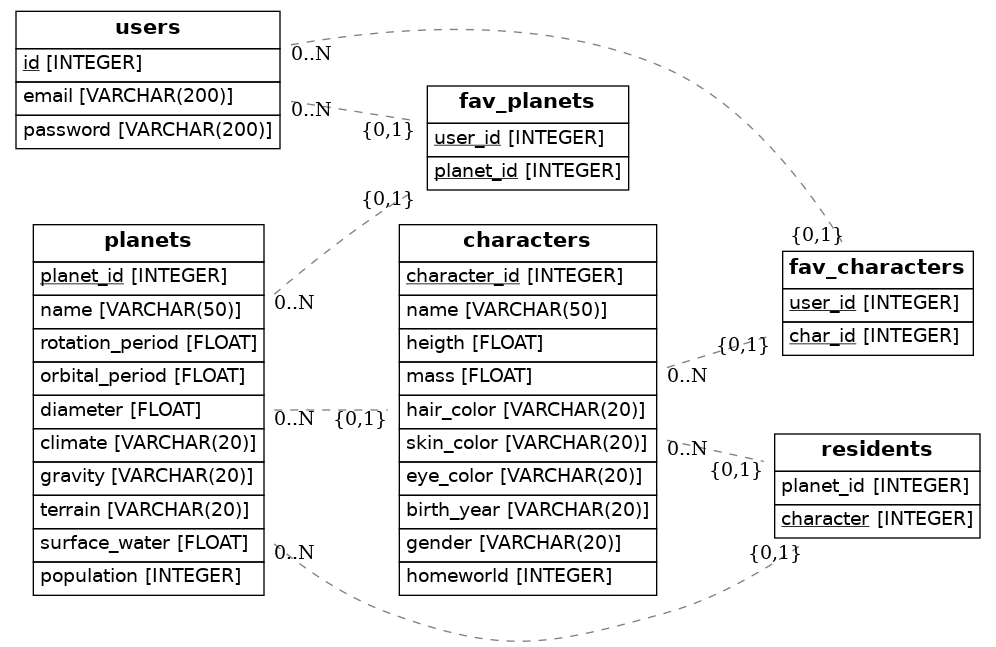
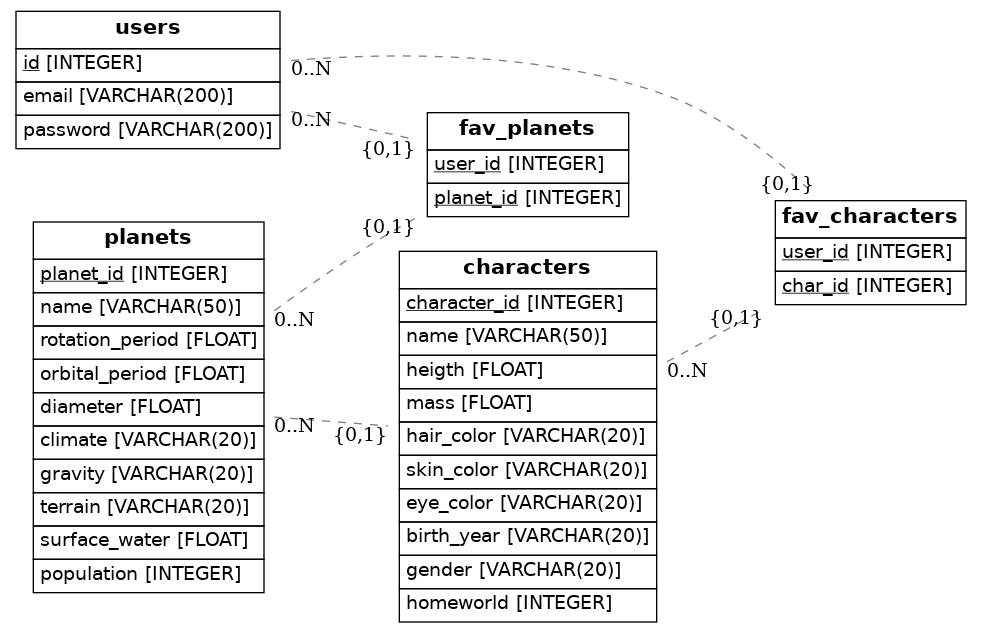
remove unnecesary residents table

Changed region(s): [[0.0306, 0.1201, 1.0, 0.9905], [0.0, 0.0, 0.3364, 0.2401]]

diff --git a/src/models.py b/src/models.py
@@ -20,13 +20,6 @@ class FavCharacters(Base):
     char_id = Column(Integer, ForeignKey('characters.id'), primary_key=True)
 
 
-class Residents(Base):
-    __tablename__ = 'residents'
-
-    planet_id = Column(Integer, ForeignKey('planets.planet_id'))
-    character = Column(Integer, ForeignKey('characters.character_id'), primary_key=True)
-
-
 class User(Base):
     __tablename__ = 'users'
     id = Column(Integer, primary_key=True)
